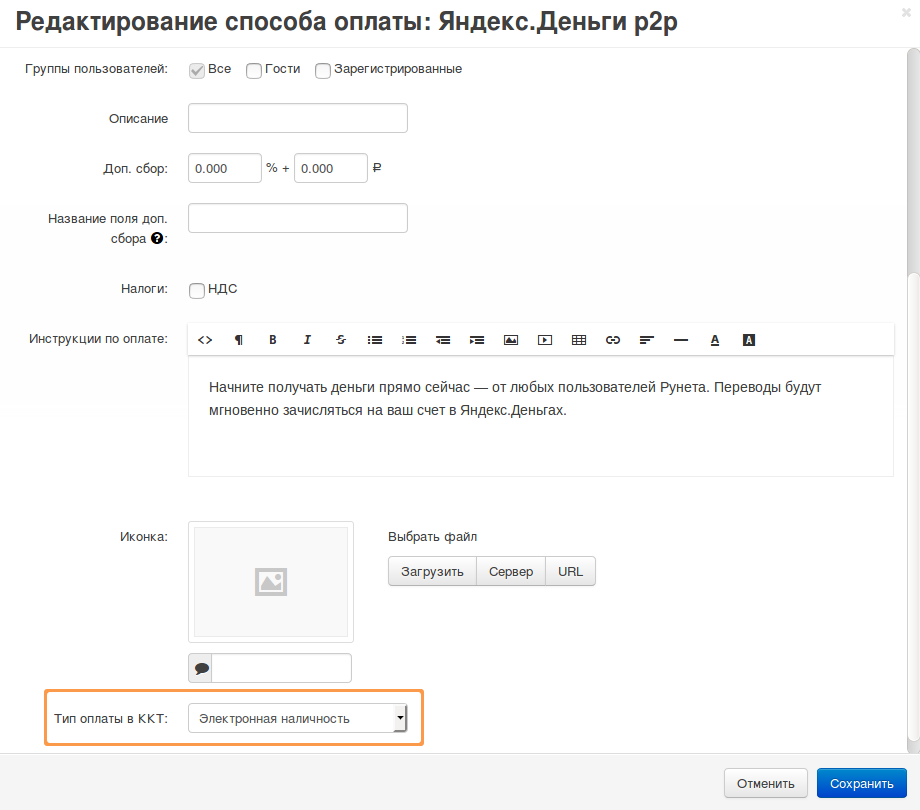
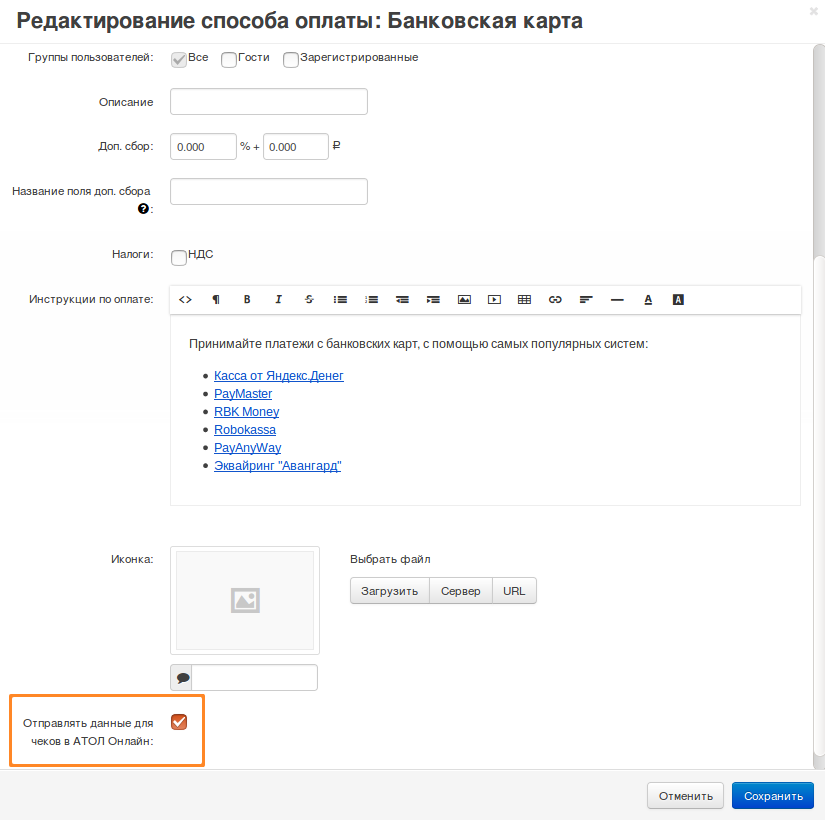
RU: User Guide: Federal Law 54: Screenshots for Yandex.Checkout and ATOL Online were updated.

diff --git a/ru/user_guide/addons/atol_online/index.rst b/ru/user_guide/addons/atol_online/index.rst
@@ -91,14 +91,14 @@
 
 #. Найдите в списке нужный способ оплаты и нажмите на его название, чтобы открыть страницу редактирования.
 
-#. Выберите **Тип оплаты в ККТ** *Электронная наличность*.
+#. Поставьте галочку **Отправлять данные для чеков в АТОЛ Онлайн**.
 
 #. Нажмите кнопку **Сохранить**.
 
 #. Повторите эти действия для всех способов оплаты, для которых нужно использовать онлайн-кассу.
 
    .. fancybox:: img/atol_online_payment_method.png
-       :alt: Выберите для способов оплаты, которые нужно регистрировать в ККТ, тип "Электронная наличность".
+       :alt: Поставьте у способов оплаты, которые нужно регистрировать в ККТ, галочку "Отправлять данные для чеков в АТОЛ Онлайн".
 
 =========================
 Шаг 4. Настраиваем налоги
@@ -110,18 +110,18 @@
 
 #. Нажмите на название налога, чтобы открыть страницу редактирования.
 
-#. В выпадающем списке **Налог в ККТ** выберите налог из онлайн-кассы, которому соответствует этот налог из CS-Cart.
+#. В выпадающем списке **Тип НДС для АТОЛ Онлайн** выберите тип НДС из онлайн-кассы, которому соответствует этот налог из CS-Cart.
 
    .. note::
 
-       Убедитесь, что значение настройки **Цена включает налог** и значения на вкладке **Ставки налога** соответствуют налогу в онлайн-кассе, который вы выбрали. Онлайн-касса рассчитывает сумму налога по позициям автоматически.
+       В зависимости от того, стоит ли галочка **Цена включает налог**, вы сможете выбрать разные типы НДС. Убедитесь, что значения на вкладке **Ставки налога** соответствуют типу НДС, который вы выбрали. **CS-Cart не передаёт сумму налога в АТОЛ Онлайн:** эта сумма рассчитывается онлайн-кассой автоматически, исходя из типа НДС и стоимости каждого товара.
 
 #. Нажмите кнопку **Сохранить**.
 
 #. Повторите эти действия для всех налогов.
 
    .. fancybox:: img/atol_online_taxes.png
-       :alt: Задайте соответствие между налогами в магазине и налогами в ККТ.
+       :alt: Выберите тип НДС для налогов в магазине.
 
 =====================================
 Шаг 5. Смотрим чеки и журнал запросов

diff --git a/ru/user_guide/payment_methods/yandex_54fz.rst b/ru/user_guide/payment_methods/yandex_54fz.rst
@@ -41,7 +41,7 @@
 
    .. warning::
 
-       Если у вас включен :doc:`модуль "АТОЛ Онлайн" </user_guide/addons/atol_online/index>`, то он добавит настройку **Отправлять данные чека в АТОЛ** на вкладку **Общее** у всех способов оплаты. Рекомендуем не отправлять данные одного и того же способа оплаты одновременно в Яндекс.Кассу и в АТОЛ Онлайн.
+       Если у вас включен :doc:`модуль "АТОЛ Онлайн" </user_guide/addons/atol_online/index>`, то он добавит настройку **Отправлять данные для чека в АТОЛ Онлайн** на вкладку **Общее** у всех способов оплаты. Эта настройка нужна для тех, кто не использует Яндекс.Кассу, а отправляет данные в АТОЛ Онлайн напрямую. Рекомендуем не отправлять данные одного и того же способа оплаты одновременно в Яндекс.Кассу и в АТОЛ Онлайн.
 
 #. Нажмите кнопку **Сохранить**.
 
@@ -55,11 +55,11 @@
 
 #. Нажмите на название существующего налога (или создайте новый налог).
 
-#. Выберите соответствующий **Тип НДС**, который будет отправляться в Яндекс.Кассу в чеке заказа.
+#. Выберите соответствующий **Тип НДС для Яндекс.Кассы**. Этот тип НДС будет отправляться в Яндекс.Кассу в чеке заказа.
 
    .. note::
 
-       В зависимости от того, стоит ли галочка **Цена включает налог**, доступны разные типы НДС.
+       В зависимости от того, стоит ли галочка **Цена включает налог**, вы сможете выбрать разные типы НДС.
 
 #. Нажмите кнопку **Сохранить**.
 
